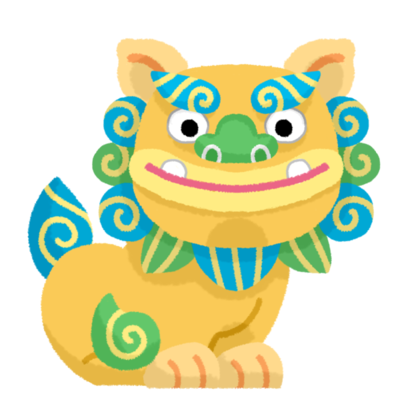
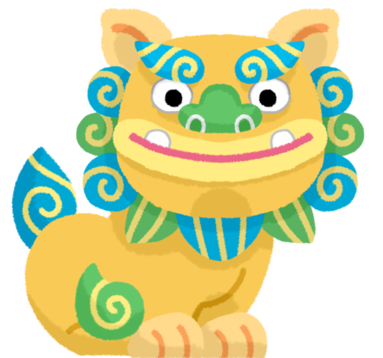
シーサーのサイズ変更 ホーム画面のボタン位置とバックグラウンドカラーの変更

diff --git a/public/css/style.css b/public/css/style.css
@@ -298,9 +298,12 @@ table {
 	text-align: center;
 	font-size:20px;
 	font-family: 'Noto Serif JP', serif;
-	/*background-color:#FFFAF0;*/
+	background-color:#FFFAF0;
 	width:100%;
+	padding-top:50px;
 	padding-bottom: 10px;
+	margin-top: 50px;
+
 }
 
 div.container > h3 {
@@ -311,6 +314,14 @@ div.container > h3 {
 
 div.container > p {
 	background-color: 
+}
+
+.containerb {
+	text-align: center;
+	font-size:20px;
+	font-family: 'Noto Serif JP', serif;
+	margin-top: 50px;
+
 }
 
 .quiz {
@@ -421,6 +432,7 @@ button.cp_btn1:hover:after{
 	float: right;
 	margin-right:30px;
 }
+
 .cute1 {
 	float: left;
 	margin-left:30px;

diff --git a/resources/views/home.blade.php b/resources/views/home.blade.php
@@ -30,8 +30,10 @@ Home Page!!
 	{{-- サイト説明 --}}
 	<div class="container">
 		<h3>みゃーくふつを救え</h3>　
-		<img src="./img/logo.png" alt="わいどーロゴ" width="400px">
-		<h3>Our Concept</h3>
+		<img src="./img/logo.png" alt="わいどーロゴ" width="400px">	
+		<br>
+		<br>
+		
 		<p>	{{-- わいどーとは、宮古島の方言で「がんばろう」という意味です。<br>
 			宮古島の方言は「みゃーくふつ」と呼ばれています。<br>
 			しかし、そのみゃーくふつが2009年にユネスコの発表する<a href="http://www.unesco.org/culture/languages-atlas/en/atlasmap/language-id-1973.html">消滅危機言語</a>に指定されてしまいました。<br>
@@ -64,11 +66,11 @@ Home Page!!
 			<br>
 			<br>
 		</p>
-		<div class=container>
+	</div>
+		<div class=containerb>
 			<a href="{{ route('quiz.quizlist') }}" class="cp_btn">スタート</a>
 			<br>
 			<br>
 		</div>
-	</div>
 
 @endsection

diff --git a/resources/views/layout.blade.php b/resources/views/layout.blade.php
@@ -161,8 +161,8 @@
         <a href="http://line.me/R/msg/text/?http://qiita.com/katsuma"><i class="fab fa-line"></i></a>
 
         <p class="pagetop">©2019 M5</p> --}}
-    <img src="./img/sisaright.png" alt="シーサー" height="100px" class="cute">
-    <img src="./img/sisaleft.png" alt="シーサー" height="100px" class="cute1">
+    <img src="./img/sisaright.png" alt="シーサー" height="150px" class="cute">
+    <img src="./img/sisaleft.png" alt="シーサー" height="150px" class="cute1">
     <div class="bottom section-padding">
         <div class="acontainer">
             <div class="row">
